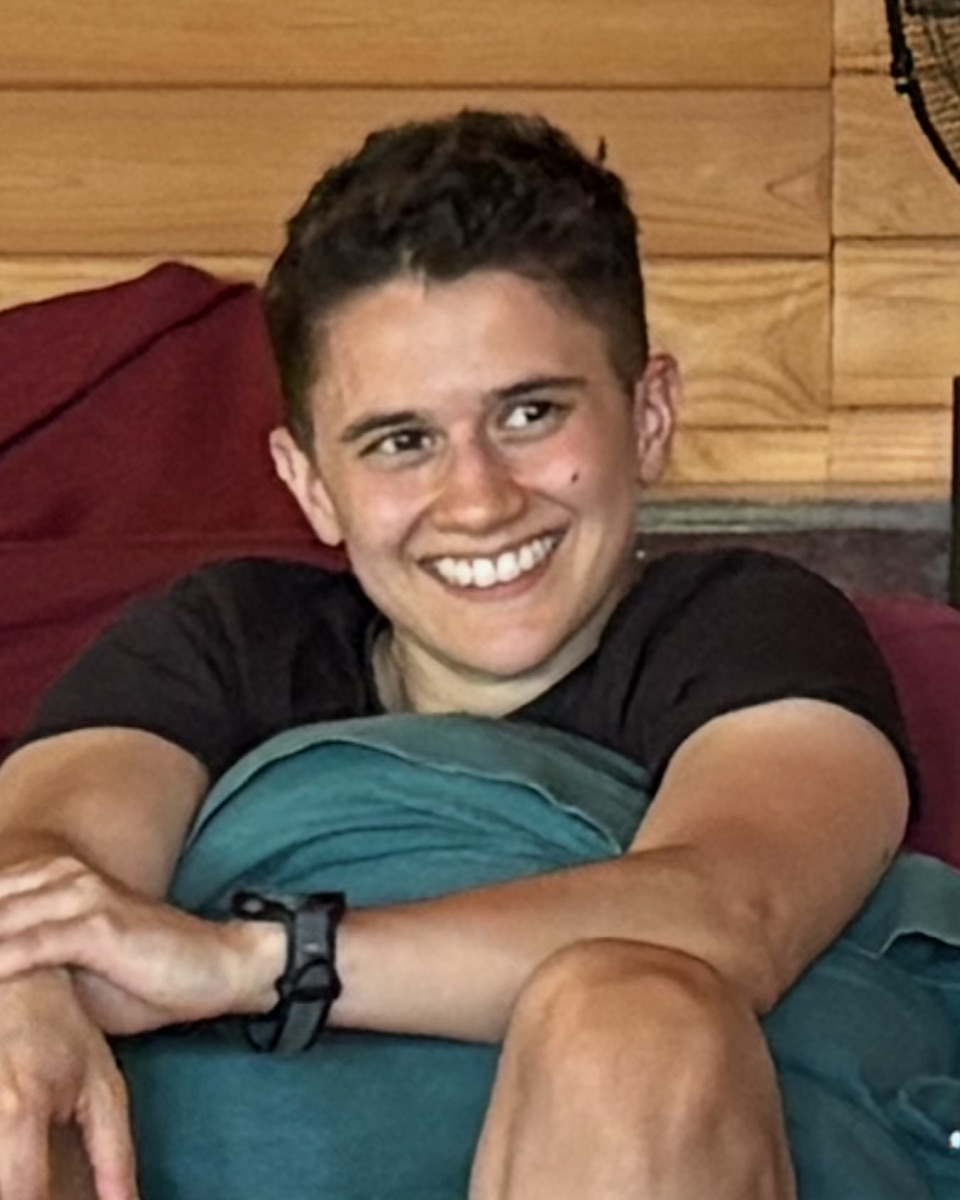
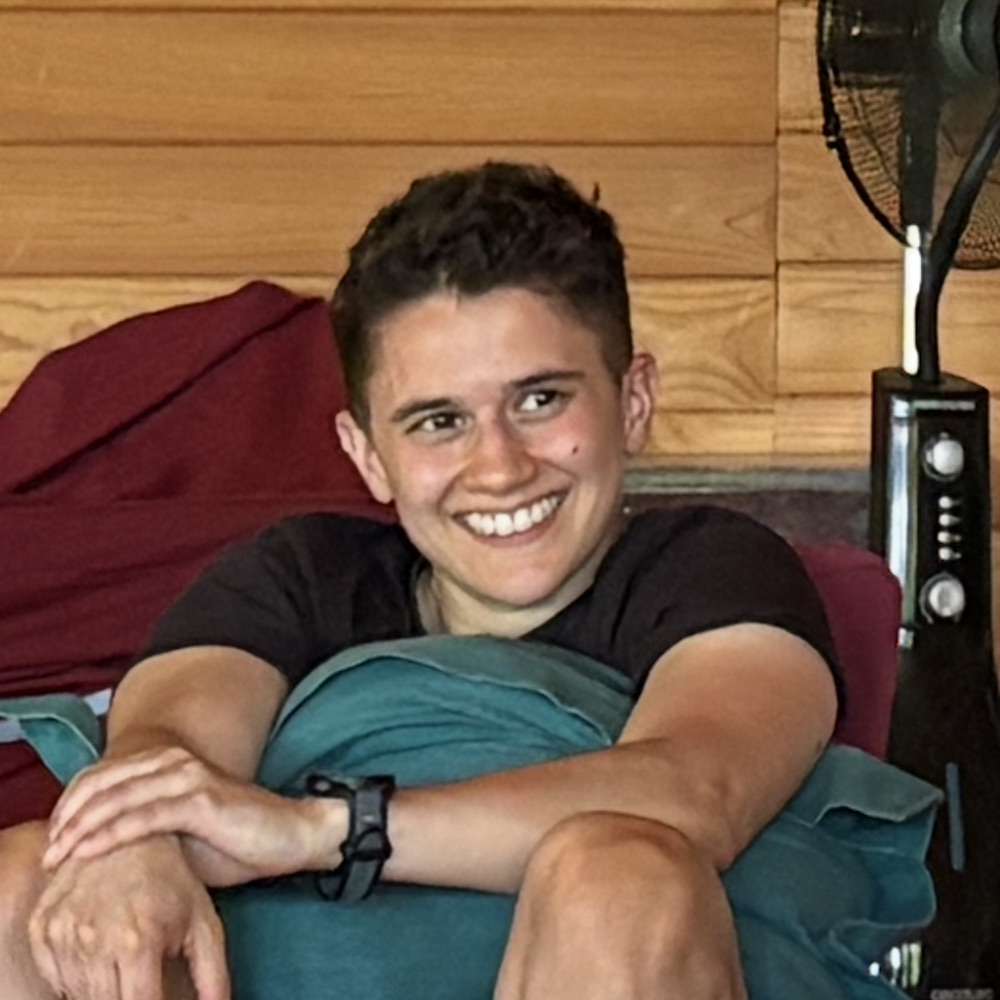
feat: zoom out the home portrait
Use a wider square crop so more of the surroundings show in the circle.

diff --git a/src/Home.tsx b/src/Home.tsx
@@ -33,7 +33,7 @@ export const Home = () => {
 				</div>
 				<img
 					src="/assets/alizeh-portrait.jpg"
-					className="mt-14 aspect-square w-full max-w-64 rounded-full object-cover object-[50%_22%]"
+					className="mt-14 aspect-square w-full max-w-64 rounded-full object-cover"
 					alt="Alizeh smiling, leaning on a teal cushion in front of a wooden wall"
 				/>
 			</div>
